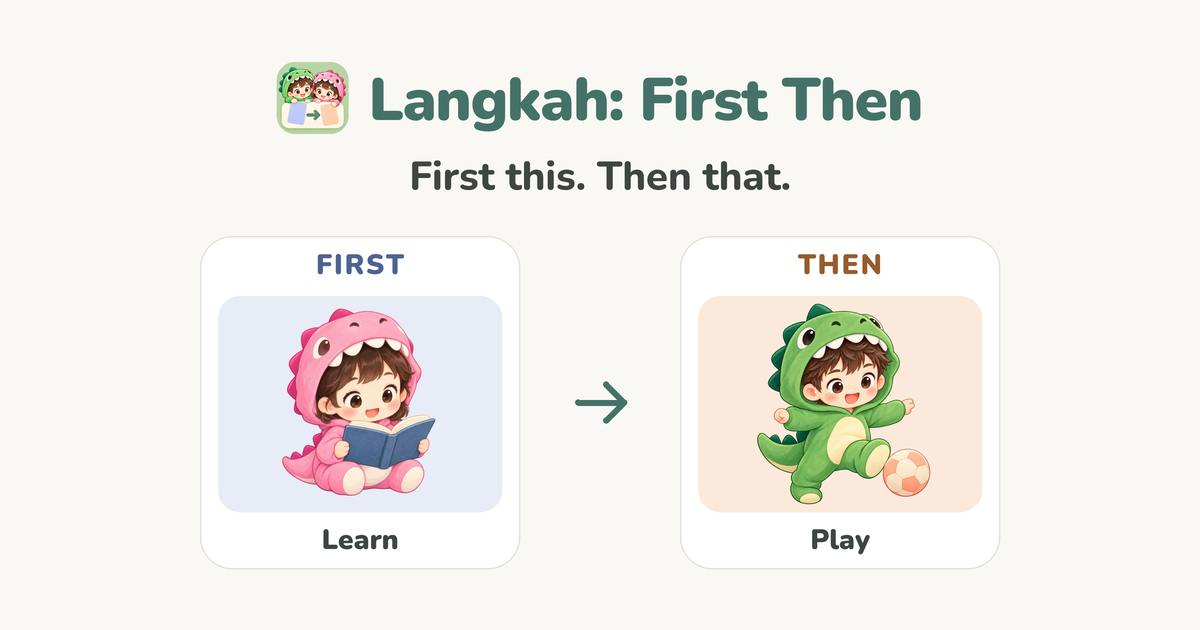
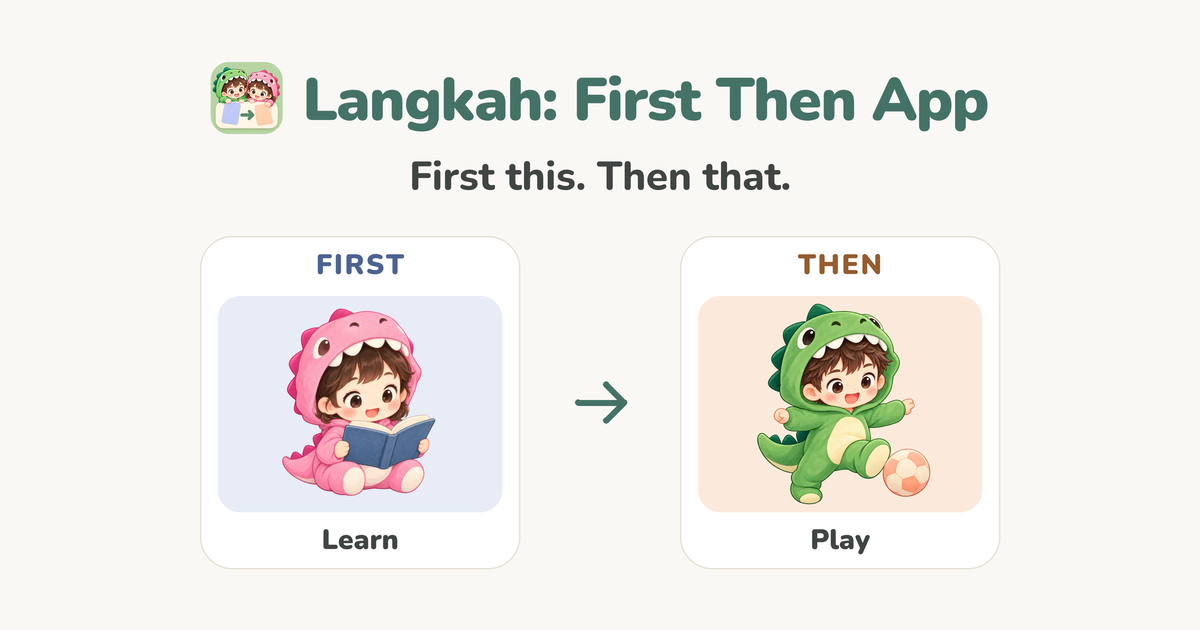
Langkah: remove the Crashlytics claims and use the App Store product name
- Privacy policy (EN, ID) now matches the app, which has no Firebase
  Crashlytics or any third-party SDK: nothing is sent to Google, matching the
  "Data Not Collected" privacy label and the Kids Category rules
- Buying or restoring Langkah Pro and links outside the app are described as
  behind the question for grown-ups, in privacy and support
- Product name is "Langkah: First Then App" in Open Graph, JSON-LD, footers
  and the share image; the developer is Moch Fariz Al Hazmi, as on the App
  Store
- Privacy policy dated 18 November 2026

Changed region(s): [[0.1542, 0.0905, 0.8325, 0.2111]]

diff --git a/langkah/privacy/id/index.html b/langkah/privacy/id/index.html
@@ -3,8 +3,8 @@
 <head>
 <meta charset="utf-8">
 <meta name="viewport" content="width=device-width, initial-scale=1">
-<title>Kebijakan privasi - Langkah: First Then</title>
-<meta name="description" content="Langkah menyimpan papan dan rekaman di perangkat Anda. Firebase Crashlytics mengirim laporan crash kepada Google.">
+<title>Kebijakan privasi - Langkah: First Then App</title>
+<meta name="description" content="Langkah menyimpan papan, foto, dan rekaman di perangkat Anda. Tanpa akun, iklan, SDK analitik atau pelaporan crash pihak ketiga.">
 <meta name="theme-color" content="#faf8f4">
 <link rel="icon" href="../../assets/img/apple-touch-icon.png">
 <link rel="apple-touch-icon" href="../../assets/img/apple-touch-icon.png">
@@ -30,7 +30,7 @@
 <main id="main" class="wrap doc">
   <div class="doc-head">
     <h1 class="title">Kebijakan privasi</h1>
-    <p class="muted">Langkah: First Then, untuk iPhone dan iPad. Terakhir diperbarui 15 November 2026.</p>
+    <p class="muted">Langkah: First Then App, untuk iPhone dan iPad. Terakhir diperbarui 18 November 2026.</p>
   </div>
 
   <div class="doc-body">
@@ -38,14 +38,14 @@
       <h2>Versi singkat</h2>
       <ul>
         <li>Papan, foto, dan rekaman suara yang Anda tambahkan tetap di perangkat Anda.</li>
-        <li>Firebase Crashlytics mengirim laporan kerusakan aplikasi dan detail perangkat kepada Google agar kami dapat menemukan dan memperbaiki masalah.</li>
-        <li>Aplikasi tidak memiliki iklan atau Google Analytics.</li>
+        <li>Aplikasi tidak mengirim papan, profil, foto, atau rekaman Anda kepada kami.</li>
+        <li>Aplikasi tidak memiliki iklan, SDK analitik atau pelaporan crash pihak ketiga.</li>
         <li>Pembelian ditangani oleh Apple.</li>
       </ul>
     </div>
 
     <h2 id="who">Siapa kami</h2>
-    <p>Langkah: First Then ("Langkah", "aplikasi") dibuat oleh Mochamad Fariz Al Hazmi, pengembang perorangan di Indonesia ("kami"). Kebijakan ini berlaku untuk aplikasi dan situs web ini. Jika ada yang kurang jelas, tulis kepada kami di alamat pada bagian <a href="#contact">Kontak</a>.</p>
+    <p>Langkah: First Then App ("Langkah", "aplikasi") dibuat oleh Moch Fariz Al Hazmi, pengembang perorangan di Indonesia ("kami"). Kebijakan ini berlaku untuk aplikasi dan situs web ini. Jika ada yang kurang jelas, tulis kepada kami di alamat pada bagian <a href="#contact">Kontak</a>.</p>
 
     <h2 id="device">Yang tetap di perangkat Anda</h2>
     <p>Anda bisa memakai Langkah tanpa memberi tahu kami apa pun. Yang Anda tambahkan disimpan di penyimpanan aplikasi pada iPhone atau iPad Anda:</p>
@@ -56,7 +56,7 @@
       <li>Rekaman suara yang Anda buat untuk kartu buatan sendiri.</li>
       <li>Pengaturan Anda.</li>
     </ul>
-    <p>Kami tidak dapat melihat, menyalin, atau memulihkan konten tersebut. Aplikasi tidak mengirimkannya kepada kami atau Google. Aplikasi tidak menanyakan jenis kelamin, diagnosis, atau informasi kesehatan apa pun.</p>
+    <p>Kami tidak dapat melihat, menyalin, atau memulihkan konten tersebut. Aplikasi tidak mengirimkannya kepada kami atau layanan pihak ketiga. Aplikasi tidak menanyakan jenis kelamin, diagnosis, atau informasi kesehatan apa pun.</p>
 
     <h2 id="backup">Cadangan perangkat</h2>
     <p>Jika Anda mencadangkan perangkat dengan Cadangan iCloud atau ke komputer, Apple menyertakan data aplikasi ini dalam cadangan tersebut, sama seperti aplikasi lain. Cadangan itu milik Akun Apple Anda dan tunduk pada kebijakan privasi Apple. Kami tidak punya akses ke sana.</p>
@@ -72,24 +72,23 @@
     <h2 id="purchases">Pembelian</h2>
     <p>Langkah Pro adalah pembelian satu kali lewat App Store. Apple yang memproses pembayarannya. Kami tidak pernah melihat detail kartu, nama, atau alamat email Anda. Untuk memeriksa apakah Pro sudah terbuka, aplikasi bertanya kepada App Store di perangkat Anda. Apple memberi kami jumlah penjualan, bukan siapa pembelinya.</p>
 
-    <h2 id="crashlytics">Laporan kerusakan aplikasi</h2>
-    <p>Langkah menggunakan Firebase Crashlytics, layanan pelaporan kerusakan aplikasi dari Google. Saat aplikasi mengalami crash, Crashlytics dapat mengirim jejak crash, status aplikasi yang relevan, detail perangkat dan sistem operasi, versi aplikasi, serta pengenal instalasi kepada Google. Google memproses data tersebut untuk mengelompokkan laporan dan membantu kami mendiagnosis serta memperbaiki masalah. Laporan dapat diproses dan disimpan di negara tempat Google beroperasi. Google menyebut masa penyimpanan 90 hari untuk jejak crash dan pengenal terkait. <a href="https://firebase.google.com/support/privacy" hreflang="en">Baca cara Firebase menangani data</a> (bahasa Inggris).</p>
-    <p>Kami tidak menyertakan nama anak, foto, rekaman suara, isi papan, atau pengenal teks bebas dalam laporan crash. Kami tidak memakai Google Analytics, sehingga log aktivitas sebelum crash dari Analytics tidak dikumpulkan. Pelaporan crash ini terpisah dari pengaturan berbagi diagnostik Apple yang opsional. Tidak ada tombol di dalam aplikasi untuk menonaktifkan pengumpulan Crashlytics.</p>
+    <h2 id="diagnostics">Diagnostik aplikasi</h2>
+    <p>Versi aplikasi saat ini tidak menyertakan SDK pelaporan crash pihak ketiga dan tidak mengirim laporan crash secara langsung kepada kami atau layanan pelaporan crash pihak ketiga. Apple dapat membagikan diagnostik secara terpisah seperti dijelaskan di bawah.</p>
 
     <h2 id="apple">Diagnostik yang dibagikan Apple</h2>
     <p>Secara terpisah, jika Anda mengaktifkan "Bagikan dengan Pengembang App" di pengaturan perangkat, Apple dapat memperlihatkan diagnostik dan statistik penggunaan kepada kami. Anda bisa mematikannya di Pengaturan, bagian Privasi &amp; Keamanan, lalu Analisis &amp; Peningkatan.</p>
 
     <h2 id="children">Anak-anak</h2>
-    <p>Langkah disiapkan oleh orang tua atau pengasuh dan dipakai bersama anak. Aplikasi tidak mengumpulkan detail profil atau rutinitas dari anak maupun orang dewasa. Laporan crash yang dijelaskan di atas dapat dikirim saat aplikasi mengalami crash. Di Mode Anak, anak hanya melihat papan, tanpa iklan dan tanpa tautan keluar dari aplikasi. Keluar dari Mode Anak memerlukan orang dewasa yang menjawab satu soal. Pengaturan dan layar pembelian hanya ada di Mode Orang Tua.</p>
+    <p>Langkah disiapkan oleh orang tua atau pengasuh dan dipakai bersama anak. Aplikasi tidak mengumpulkan detail profil atau rutinitas dari anak maupun orang dewasa. Di Mode Anak, anak hanya melihat papan, tanpa iklan dan tanpa tautan keluar dari aplikasi. Keluar dari Mode Anak memerlukan orang dewasa yang menjawab satu soal. Pengaturan dan layar pembelian hanya ada di Mode Orang Tua. Membeli atau memulihkan Langkah Pro, dan apa pun yang terbuka di luar aplikasi, seperti aplikasi Pengaturan di perangkat, juga meminta orang dewasa menjawab satu soal lebih dulu.</p>
 
     <h2 id="delete">Menghapus data Anda</h2>
     <p>Anda bisa menghapus kartu, papan, atau profil anak di dalam aplikasi kapan saja. Menghapus aplikasi dari perangkat menghapus semua yang disimpannya. Salinan di dalam cadangan perangkat dikelola lewat pengaturan Akun Apple Anda.</p>
 
     <h2 id="rights">Hak Anda</h2>
-    <p>Undang-undang privasi memberi Anda hak untuk melihat, memperbaiki, dan menghapus data pribadi yang disimpan sebuah perusahaan tentang Anda. Kami tidak menerima papan, foto, atau rekaman Anda dari aplikasi. Laporan crash diproses Google seperti dijelaskan di atas. Jika Anda pernah mengirim email kepada kami dan ingin email itu dihapus, beri tahu kami dan kami akan menghapusnya. Anda juga bisa mengadu ke otoritas pelindungan data di tempat Anda tinggal.</p>
+    <p>Undang-undang privasi memberi Anda hak untuk melihat, memperbaiki, dan menghapus data pribadi yang disimpan sebuah perusahaan tentang Anda. Kami tidak menerima papan, foto, atau rekaman Anda dari aplikasi. Jika Anda pernah mengirim email kepada kami dan ingin email itu dihapus, beri tahu kami dan kami akan menghapusnya. Anda juga bisa mengadu ke otoritas pelindungan data di tempat Anda tinggal.</p>
 
     <h2 id="website">Situs web ini</h2>
-    <p>Situs ini tidak memasang cookie dan tidak punya analitik atau skrip pelacak. Aplikasi memakai Firebase Crashlytics; layanan ini tidak menambahkan skrip pelacak ke situs web. Situs ini di-hosting di GitHub Pages. Seperti penyedia hosting lain, GitHub dapat mencatat detail teknis seperti alamat IP saat Anda membuka halaman. Lihat <a href="https://docs.github.com/en/site-policy/privacy-policies/github-general-privacy-statement" hreflang="en">pernyataan privasi GitHub</a> (bahasa Inggris).</p>
+    <p>Situs ini tidak memasang cookie dan tidak punya analitik atau skrip pelacak. Situs ini di-hosting di GitHub Pages. Seperti penyedia hosting lain, GitHub dapat mencatat detail teknis seperti alamat IP saat Anda membuka halaman. Lihat <a href="https://docs.github.com/en/site-policy/privacy-policies/github-general-privacy-statement" hreflang="en">pernyataan privasi GitHub</a> (bahasa Inggris).</p>
 
     <h2 id="email">Jika Anda mengirim email</h2>
     <p>Kami menerima alamat email Anda dan apa yang Anda tulis. Kami memakainya hanya untuk membalas Anda, dan tidak memasukkan Anda ke daftar apa pun. Email Anda tetap di kotak surat kami agar kami bisa menindaklanjuti, sampai Anda meminta kami menghapusnya.</p>
@@ -104,7 +103,7 @@
 
 <footer class="site-footer">
   <div class="wrap">
-    <p>Langkah: First Then dibuat oleh Alhazme.</p>
+    <p>Langkah: First Then App dibuat oleh Moch Fariz Al Hazmi.</p>
     <ul>
       <li><a href="../../id/index.html">Beranda</a></li>
       <li><a href="../../support/id/index.html">Bantuan</a></li>

diff --git a/langkah/privacy/index.html b/langkah/privacy/index.html
@@ -3,8 +3,8 @@
 <head>
 <meta charset="utf-8">
 <meta name="viewport" content="width=device-width, initial-scale=1">
-<title>Privacy policy - Langkah: First Then</title>
-<meta name="description" content="Langkah keeps boards and recordings on your device. Firebase Crashlytics sends crash reports to Google.">
+<title>Privacy policy - Langkah: First Then App</title>
+<meta name="description" content="Langkah stores boards, photos and recordings on your device. No accounts, ads or third-party analytics or crash-reporting SDKs.">
 <meta name="theme-color" content="#faf8f4">
 <link rel="icon" href="../assets/img/apple-touch-icon.png">
 <link rel="apple-touch-icon" href="../assets/img/apple-touch-icon.png">
@@ -30,7 +30,7 @@
 <main id="main" class="wrap doc">
   <div class="doc-head">
     <h1 class="title">Privacy policy</h1>
-    <p class="muted">Langkah: First Then, for iPhone and iPad. Last updated 15 November 2026.</p>
+    <p class="muted">Langkah: First Then App, for iPhone and iPad. Last updated 18 November 2026.</p>
   </div>
 
   <div class="doc-body">
@@ -38,14 +38,14 @@
       <h2>The short version</h2>
       <ul>
         <li>Boards, photos and voice recordings you add stay on your device.</li>
-        <li>Firebase Crashlytics sends crash reports and device details to Google so we can find and fix app crashes.</li>
-        <li>The app has no advertising or Google Analytics.</li>
+        <li>The app does not send your boards, profiles, photos or recordings to us.</li>
+        <li>The app has no advertising, third-party analytics or third-party crash-reporting SDKs.</li>
         <li>Purchases are handled by Apple.</li>
       </ul>
     </div>
 
     <h2 id="who">Who we are</h2>
-    <p>Langkah: First Then ("Langkah", "the app") is made by Mochamad Fariz Al Hazmi, an individual developer in Indonesia ("we"). This policy covers the app and this website. If anything here is unclear, write to us at the address in <a href="#contact">Contact</a>.</p>
+    <p>Langkah: First Then App ("Langkah", "the app") is made by Moch Fariz Al Hazmi, an individual developer in Indonesia ("we"). This policy covers the app and this website. If anything here is unclear, write to us at the address in <a href="#contact">Contact</a>.</p>
 
     <h2 id="device">What stays on your device</h2>
     <p>You can use Langkah without telling us anything. What you add is saved in the app's own storage on your iPhone or iPad:</p>
@@ -56,7 +56,7 @@
       <li>Voice recordings you make for your own cards.</li>
       <li>Your settings.</li>
     </ul>
-    <p>We cannot see, copy or recover this content. The app does not send it to us or to Google. The app does not ask for gender, a diagnosis, or any health information.</p>
+    <p>We cannot see, copy or recover this content. The app does not send it to us or a third-party service. The app does not ask for gender, a diagnosis, or any health information.</p>
 
     <h2 id="backup">Device backups</h2>
     <p>If you back up your device with iCloud Backup or to a computer, Apple includes the app's data in that backup, as it does for other apps. The backup belongs to your Apple Account and is covered by Apple's privacy policy. We have no access to it.</p>
@@ -72,24 +72,23 @@
     <h2 id="purchases">Purchases</h2>
     <p>Langkah Pro is a one-time purchase through the App Store. Apple processes the payment. We never see your card details, your name or your email address. To check that Pro is unlocked, the app asks the App Store on your device. Apple gives us sales totals, not who bought.</p>
 
-    <h2 id="crashlytics">Crash reports</h2>
-    <p>Langkah uses Firebase Crashlytics, a crash-reporting service provided by Google. When the app crashes, Crashlytics can send Google a crash trace, relevant app state, device and operating system details, the app version, and installation identifiers. Google processes these details to group crash reports and help us diagnose and fix problems. Crash reports may be processed and stored in countries where Google operates. Google documents a 90-day retention period for crash traces and associated identifiers. <a href="https://firebase.google.com/support/privacy">Read how Firebase handles data</a>.</p>
-    <p>We do not include your child's name, photos, voice recordings, board contents or free-text identifiers in crash reports. We do not use Google Analytics, so Analytics breadcrumb logs are not included. Crash reporting is separate from Apple's optional diagnostics sharing setting. We do not have an in-app switch to turn Crashlytics collection off.</p>
+    <h2 id="diagnostics">App diagnostics</h2>
+    <p>The current app does not include a third-party crash-reporting SDK and does not send crash reports directly to us or a third-party crash-reporting service. Apple may separately share diagnostics as explained below.</p>
 
     <h2 id="apple">Diagnostics shared by Apple</h2>
     <p>Separately, if you have turned on "Share With App Developers" in your device settings, Apple may show us diagnostics and usage statistics. You can turn this off in Settings, under Privacy &amp; Security, then Analytics &amp; Improvements.</p>
 
     <h2 id="children">Children</h2>
-    <p>Langkah is set up by a parent or carer and used together with a child. It does not collect profile or routine details from children or adults. Crash reports described above may be sent when the app crashes. In Child Mode your child sees only the board, with no advertising and no links out of the app. Leaving Child Mode takes a grown-up answering a question. Settings and the purchase screen are in Parent Mode only.</p>
+    <p>Langkah is set up by a parent or carer and used together with a child. It does not collect profile or routine details from children or adults. In Child Mode your child sees only the board, with no advertising and no links out of the app. Leaving Child Mode takes a grown-up answering a question. Settings and the purchase screen are in Parent Mode only. Buying or restoring Langkah Pro, and anything that opens outside the app, such as the Settings app on your device, also asks a grown-up to answer a question first.</p>
 
     <h2 id="delete">Deleting your data</h2>
     <p>You can delete a card, a board or a child profile inside the app at any time. Deleting the app from your device removes everything it stored. Copies inside a device backup are managed in your Apple Account settings.</p>
 
     <h2 id="rights">Your rights</h2>
-    <p>Privacy laws give you the right to see, correct and delete personal data that a company holds about you. We do not receive your boards, photos or recordings from the app. Crash reports are processed by Google as described above. If you have emailed us and want that email deleted, tell us and we will delete it. You can also complain to the data protection authority where you live.</p>
+    <p>Privacy laws give you the right to see, correct and delete personal data that a company holds about you. We do not receive your boards, photos or recordings from the app. If you have emailed us and want that email deleted, tell us and we will delete it. You can also complain to the data protection authority where you live.</p>
 
     <h2 id="website">This website</h2>
-    <p>This site sets no cookies and has no analytics or tracking scripts. The app uses Firebase Crashlytics; this does not add tracking scripts to the website. It is hosted on GitHub Pages. Like any web host, GitHub may log technical details such as your IP address when you load a page. See the <a href="https://docs.github.com/en/site-policy/privacy-policies/github-general-privacy-statement">GitHub privacy statement</a>.</p>
+    <p>This site sets no cookies and has no analytics or tracking scripts. It is hosted on GitHub Pages. Like any web host, GitHub may log technical details such as your IP address when you load a page. See the <a href="https://docs.github.com/en/site-policy/privacy-policies/github-general-privacy-statement">GitHub privacy statement</a>.</p>
 
     <h2 id="email">If you email us</h2>
     <p>We receive your email address and whatever you write. We use it only to answer you, and we do not add you to any list. Your email stays in our mailbox so we can follow up, until you ask us to delete it.</p>
@@ -104,7 +103,7 @@
 
 <footer class="site-footer">
   <div class="wrap">
-    <p>Langkah: First Then is made by Alhazme.</p>
+    <p>Langkah: First Then App is made by Moch Fariz Al Hazmi.</p>
     <ul>
       <li><a href="../index.html">Home</a></li>
       <li><a href="../support/index.html">Support</a></li>

diff --git a/langkah/id/index.html b/langkah/id/index.html
@@ -7,7 +7,7 @@
 <meta name="description" content="Langkah adalah aplikasi papan First Then untuk iPhone dan iPad. Tunjukkan kepada anak apa yang dilakukan sekarang dan berikutnya dengan kartu bergambar dan timer.">
 <link rel="canonical" href="https://alhaz.me/langkah/id/">
 <meta name="theme-color" content="#faf8f4">
-<meta property="og:title" content="Langkah: First Then">
+<meta property="og:title" content="Langkah: First Then App">
 <meta property="og:description" content="Papan gambar untuk yang dilakukan sekarang dan berikutnya.">
 <meta property="og:type" content="website">
 <meta property="og:url" content="https://alhaz.me/langkah/id/">
@@ -17,14 +17,14 @@
 <meta property="og:image" content="https://alhaz.me/langkah/assets/img/og.png">
 <meta property="og:image:width" content="1200">
 <meta property="og:image:height" content="630">
-<meta property="og:image:alt" content="Langkah: First Then. Dina membaca pada kartu FIRST, lalu panah menuju Dino bermain pada kartu THEN. Teks gambar: First this. Then that.">
+<meta property="og:image:alt" content="Langkah: First Then App. Dina membaca pada kartu FIRST, lalu panah menuju Dino bermain pada kartu THEN. Teks gambar: First this. Then that.">
 <meta name="twitter:card" content="summary_large_image">
 <link rel="icon" href="../assets/img/apple-touch-icon.png">
 <link rel="apple-touch-icon" href="../assets/img/apple-touch-icon.png">
 <link rel="alternate" hreflang="en" href="https://alhaz.me/langkah/">
 <link rel="alternate" hreflang="id" href="https://alhaz.me/langkah/id/">
 <link rel="alternate" hreflang="x-default" href="https://alhaz.me/langkah/">
-<script type="application/ld+json">{"@context": "https://schema.org", "@type": "SoftwareApplication", "name": "Langkah: First Then", "description": "Langkah adalah aplikasi papan First Then untuk iPhone dan iPad. Tunjukkan kepada anak apa yang dilakukan sekarang dan berikutnya dengan kartu bergambar dan timer.", "url": "https://alhaz.me/langkah/id/", "image": "https://alhaz.me/langkah/assets/img/apple-touch-icon.png", "inLanguage": "id", "operatingSystem": "iOS, iPadOS", "applicationCategory": "EducationalApplication", "offers": {"@type": "Offer", "price": "0", "priceCurrency": "USD"}, "author": {"@type": "Organization", "name": "Alhazme", "url": "https://alhaz.me/"}}</script>
+<script type="application/ld+json">{"@context": "https://schema.org", "@type": "SoftwareApplication", "name": "Langkah: First Then App", "description": "Langkah adalah aplikasi papan First Then untuk iPhone dan iPad. Tunjukkan kepada anak apa yang dilakukan sekarang dan berikutnya dengan kartu bergambar dan timer.", "url": "https://alhaz.me/langkah/id/", "image": "https://alhaz.me/langkah/assets/img/apple-touch-icon.png", "inLanguage": "id", "operatingSystem": "iOS, iPadOS", "applicationCategory": "EducationalApplication", "offers": {"@type": "Offer", "price": "0", "priceCurrency": "USD"}, "author": {"@type": "Person", "name": "Moch Fariz Al Hazmi", "url": "https://alhaz.me/"}}</script>
 <link rel="stylesheet" href="../assets/styles.css">
 <script src="../assets/header.js" defer></script>
 
@@ -182,7 +182,7 @@
 <footer class="landing-footer content-width">
   <div class="footer-top"><a class="brand" href="index.html"><img src="../assets/img/app-icon.webp" alt="" width="40" height="40">langkah<span class="brand-dot" aria-hidden="true">.</span></a><p>Selangkah, bersama.</p><nav aria-label="Navigasi bawah"><a href="../privacy/id/index.html">Privasi</a><a href="../support/id/index.html">Bantuan</a><a href="../index.html" lang="en" hreflang="en">English</a></nav></div>
   <div class="footer-bottom"><p>Dibuat dengan perhatian oleh Moch Fariz Al Hazmi.</p>
-      <span>© 2026 Langkah: First Then</span></div>
+      <span>© 2026 Langkah: First Then App</span></div>
 </footer>
 </body>
 </html>

diff --git a/langkah/index.html b/langkah/index.html
@@ -7,7 +7,7 @@
 <meta name="description" content="Langkah is a First Then board app for iPhone and iPad. Show your child what happens now and next with picture cards, a gentle timer, and a star per board.">
 <link rel="canonical" href="https://alhaz.me/langkah/">
 <meta name="theme-color" content="#faf8f4">
-<meta property="og:title" content="Langkah: First Then">
+<meta property="og:title" content="Langkah: First Then App">
 <meta property="og:description" content="A picture board for what happens now and what comes next.">
 <meta property="og:type" content="website">
 <meta property="og:url" content="https://alhaz.me/langkah/">
@@ -17,14 +17,14 @@
 <meta property="og:image" content="https://alhaz.me/langkah/assets/img/og.png">
 <meta property="og:image:width" content="1200">
 <meta property="og:image:height" content="630">
-<meta property="og:image:alt" content="Langkah: First Then. First this. Then that. Dina reads on the FIRST card, followed by an arrow to Dino playing on the THEN card.">
+<meta property="og:image:alt" content="Langkah: First Then App. First this. Then that. Dina reads on the FIRST card, followed by an arrow to Dino playing on the THEN card.">
 <meta name="twitter:card" content="summary_large_image">
 <link rel="icon" href="assets/img/apple-touch-icon.png">
 <link rel="apple-touch-icon" href="assets/img/apple-touch-icon.png">
 <link rel="alternate" hreflang="en" href="https://alhaz.me/langkah/">
 <link rel="alternate" hreflang="id" href="https://alhaz.me/langkah/id/">
 <link rel="alternate" hreflang="x-default" href="https://alhaz.me/langkah/">
-<script type="application/ld+json">{"@context": "https://schema.org", "@type": "SoftwareApplication", "name": "Langkah: First Then", "description": "Langkah is a First Then board app for iPhone and iPad. Show your child what happens now and next with picture cards, a gentle timer, and a star per board.", "url": "https://alhaz.me/langkah/", "image": "https://alhaz.me/langkah/assets/img/apple-touch-icon.png", "inLanguage": "en", "operatingSystem": "iOS, iPadOS", "applicationCategory": "EducationalApplication", "offers": {"@type": "Offer", "price": "0", "priceCurrency": "USD"}, "author": {"@type": "Organization", "name": "Alhazme", "url": "https://alhaz.me/"}}</script>
+<script type="application/ld+json">{"@context": "https://schema.org", "@type": "SoftwareApplication", "name": "Langkah: First Then App", "description": "Langkah is a First Then board app for iPhone and iPad. Show your child what happens now and next with picture cards, a gentle timer, and a star per board.", "url": "https://alhaz.me/langkah/", "image": "https://alhaz.me/langkah/assets/img/apple-touch-icon.png", "inLanguage": "en", "operatingSystem": "iOS, iPadOS", "applicationCategory": "EducationalApplication", "offers": {"@type": "Offer", "price": "0", "priceCurrency": "USD"}, "author": {"@type": "Person", "name": "Moch Fariz Al Hazmi", "url": "https://alhaz.me/"}}</script>
 <link rel="stylesheet" href="assets/styles.css">
 <script src="assets/header.js" defer></script>
 
@@ -182,7 +182,7 @@
 <footer class="landing-footer content-width">
   <div class="footer-top"><a class="brand" href="index.html"><img src="assets/img/app-icon.webp" alt="" width="40" height="40">langkah<span class="brand-dot" aria-hidden="true">.</span></a><p>One step, together.</p><nav aria-label="Footer"><a href="privacy/index.html">Privacy</a><a href="support/index.html">Support</a><a href="id/index.html" lang="id" hreflang="id">Bahasa Indonesia</a></nav></div>
   <div class="footer-bottom"><p>Made with care by Moch Fariz Al Hazmi</p>
-      <span>© 2026 Langkah: First Then</span></div>
+      <span>© 2026 Langkah: First Then App</span></div>
 </footer>
 </body>
 </html>

diff --git a/langkah/support/id/index.html b/langkah/support/id/index.html
@@ -3,7 +3,7 @@
 <head>
 <meta charset="utf-8">
 <meta name="viewport" content="width=device-width, initial-scale=1">
-<title>Bantuan - Langkah: First Then</title>
+<title>Bantuan - Langkah: First Then App</title>
 <meta name="description" content="Bantuan untuk Langkah: keluar dari Mode Anak, Akses Terpandu, memulihkan pembelian, Keluarga Berbagi, dan cara menghubungi kami.">
 <meta name="theme-color" content="#faf8f4">
 <link rel="icon" href="../../assets/img/apple-touch-icon.png">
@@ -68,7 +68,7 @@
     <p>Tidak ada yang berpindah sendiri. Cincin bertuliskan "Waktu habis" dan kartu menunggu sampai anak mengetuk Selesai. Memang begitu cara kerja aplikasinya. Jika Langkah sedang di latar belakang saat waktu habis, Anda mendapat notifikasi, selama notifikasi diizinkan.</p>
 
     <h2 id="restore">Memulihkan pembelian</h2>
-    <p>Buka Pengaturan di Langkah dan ketuk "Pulihkan pembelian". Pakai Akun Apple yang sama dengan saat membeli Langkah Pro. Anda tidak membayar lagi.</p>
+    <p>Buka Pengaturan di Langkah, ketuk "Pulihkan pembelian", lalu jawab soal untuk orang tua. Pakai Akun Apple yang sama dengan saat membeli Langkah Pro. Anda tidak membayar lagi.</p>
     <p>Jika muncul pesan tidak bisa terhubung ke App Store, periksa koneksi internet lalu coba sekali lagi.</p>
 
     <h2 id="family">Keluarga Berbagi dan Minta untuk Membeli</h2>
@@ -89,13 +89,13 @@
     <p>Pembayaran dan pengembalian dana ditangani Apple. Ajukan di <a href="https://reportaproblem.apple.com">reportaproblem.apple.com</a>.</p>
 
     <h2 id="privacy">Data Anda</h2>
-    <p>Semuanya tetap di perangkat Anda dan kami tidak mengumpulkan apa pun. Rinciannya ada di <a href="../../privacy/id/index.html">kebijakan privasi</a>.</p>
+    <p>Papan, profil, foto, dan rekaman tetap di perangkat Anda. Aplikasi tidak memakai SDK analitik atau pelaporan crash pihak ketiga. Apple dapat membagikan diagnostik secara terpisah bila pengaturan berbagi opsionalnya diaktifkan. Rinciannya ada di <a href="../../privacy/id/index.html">kebijakan privasi</a>.</p>
   </div>
 </main>
 
 <footer class="site-footer">
   <div class="wrap">
-    <p>Langkah: First Then dibuat oleh Alhazme.</p>
+    <p>Langkah: First Then App dibuat oleh Moch Fariz Al Hazmi.</p>
     <ul>
       <li><a href="../../id/index.html">Beranda</a></li>
       <li><a href="../../privacy/id/index.html">Kebijakan privasi</a></li>

diff --git a/langkah/support/index.html b/langkah/support/index.html
@@ -3,7 +3,7 @@
 <head>
 <meta charset="utf-8">
 <meta name="viewport" content="width=device-width, initial-scale=1">
-<title>Support - Langkah: First Then</title>
+<title>Support - Langkah: First Then App</title>
 <meta name="description" content="Help with Langkah: leaving Child Mode, Guided Access, restoring your purchase, Family Sharing, and how to reach us.">
 <meta name="theme-color" content="#faf8f4">
 <link rel="icon" href="../assets/img/apple-touch-icon.png">
@@ -68,7 +68,7 @@
     <p>Nothing moves on its own. The ring says "Time's up" and the card waits until your child taps Done. This is how the app is meant to work. If Langkah is in the background when time is up, you get a notification, as long as you allowed notifications.</p>
 
     <h2 id="restore">Restoring your purchase</h2>
-    <p>Open Settings in Langkah and tap "Restore purchase". Use the same Apple Account you bought Langkah Pro with. You do not pay again.</p>
+    <p>Open Settings in Langkah, tap "Restore purchase", then answer the question for grown-ups. Use the same Apple Account you bought Langkah Pro with. You do not pay again.</p>
     <p>If it says it can't reach the App Store, check your internet connection and try once more.</p>
 
     <h2 id="family">Family Sharing and Ask to Buy</h2>
@@ -89,13 +89,13 @@
     <p>Apple handles payments and refunds. Request one at <a href="https://reportaproblem.apple.com">reportaproblem.apple.com</a>.</p>
 
     <h2 id="privacy">Your data</h2>
-    <p>Everything stays on your device and we collect nothing. The details are in the <a href="../privacy/index.html">privacy policy</a>.</p>
+    <p>Boards, profiles, photos and recordings stay on your device. The app has no third-party analytics or crash-reporting SDKs. Apple may separately share diagnostics if you enable its optional sharing setting. The details are in the <a href="../privacy/index.html">privacy policy</a>.</p>
   </div>
 </main>
 
 <footer class="site-footer">
   <div class="wrap">
-    <p>Langkah: First Then is made by Alhazme.</p>
+    <p>Langkah: First Then App is made by Moch Fariz Al Hazmi.</p>
     <ul>
       <li><a href="../index.html">Home</a></li>
       <li><a href="../privacy/index.html">Privacy policy</a></li>

diff --git a/langkah/docs/og-source.html b/langkah/docs/og-source.html
@@ -91,7 +91,7 @@ h1 {
      the same Phosphor arrow used between the landing page's splash cards. -->
 <div class="og-brand">
   <img src="../assets/img/app-icon.webp" alt="" width="72" height="72">
-  <h1>Langkah: First Then</h1>
+  <h1>Langkah: First Then App</h1>
 </div>
 <p class="og-tagline">First this. Then that.</p>
 <div class="og-board">

diff --git a/langkah/docs/render-og.py b/langkah/docs/render-og.py
@@ -44,7 +44,7 @@ def artwork(name, x, y, w, h):
                          round(y * scale + (h * scale - image.height) / 2)), image)
 
 
-name = "Langkah: First Then"
+name = "Langkah: First Then App"
 name_width = width(name, 60, 900, -1.2)
 brand_x = (1200 - 72 - 20 - name_width) / 2
 icon = Image.open(root / "assets/img/app-icon.webp").convert("RGB").resize((72 * scale, 72 * scale), Image.Resampling.LANCZOS)

diff --git a/langkah/README.md b/langkah/README.md
@@ -1,6 +1,6 @@
 # langkah-site
 
-Static site for Langkah: First Then (TICKET-OPS-002). Plain HTML and CSS, no build step,
+Static site for Langkah: First Then App (TICKET-OPS-002). Plain HTML and CSS, no build step,
 no analytics, no cookies. Every page link is relative and ends in `index.html`, so the site
 works at a GitHub Pages project path (`/<repo>/`), on a custom domain, and opened from disk.
 
